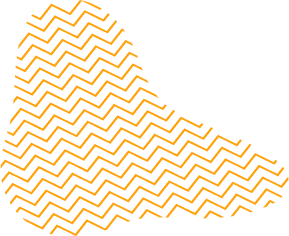
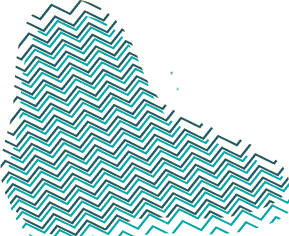
actualizando home con imagnees

diff --git a/public/assetshome/css/owl.css b/public/assetshome/css/owl.css
@@ -10,7 +10,7 @@
 .owl-carousel .owl-item {    position: relative;    min-height: 1px;    float: left;    -webkit-backface-visibility: hidden;    -webkit-tap-highlight-color: transparent;    -webkit-touch-callout: none; }  .owl-carousel .owl-item img {    display: block;    width: 100%;    -webkit-transform-style: preserve-3d; }  .owl-carousel .owl-nav.disabled,  .owl-carousel .owl-dots.disabled {    display: none; }  .owl-carousel .owl-nav .owl-prev,  .owl-carousel .owl-nav .owl-next,  .owl-carousel .owl-dot {    cursor: pointer;    cursor: hand;    -webkit-user-select: none;    -khtml-user-select: none;    -moz-user-select: none;    -ms-user-select: none;    user-select: none; }  .owl-carousel.owl-loaded {    display: block; }  .owl-carousel.owl-loading {    opacity: 0;    display: block; }  .owl-carousel.owl-hidden {    opacity: 0; }  .owl-carousel.owl-refresh .owl-item {    visibility: hidden; }  .owl-carousel.owl-drag .owl-item {    -webkit-user-select: none;    -moz-user-select: none;    -ms-user-select: none;    user-select: none; }  .owl-carousel.owl-grab {    cursor: move;    cursor: grab; }  .owl-carousel.owl-rtl {    direction: rtl; }  .owl-carousel.owl-rtl .owl-item {    float: right; }.no-js .owl-carousel {  display: block; }
 .owl-carousel .animated {  -webkit-animation-duration: 1000ms;  animation-duration: 1000ms;  -webkit-animation-fill-mode: both; animation-fill-mode: both; }.owl-carousel .owl-animated-in {  z-index: 0; } .owl-carousel .owl-animated-out {  z-index: 1; }.owl-carousel .fadeOut {  -webkit-animation-name: fadeOut;          animation-name: fadeOut; }@-webkit-keyframes fadeOut {  0% {    opacity: 1; }  100% {    opacity: 0; } }@keyframes fadeOut {  0% {    opacity: 1; }  100% {    opacity: 0; } } .owl-height {  transition: height 500ms ease-in-out; } .owl-carousel .owl-item .owl-lazy {  opacity: 0;  transition: opacity 400ms ease; }.owl-carousel .owl-item img.owl-lazy {  -webkit-transform-style: preserve-3d;      transform-style: preserve-3d; }.owl-carousel .owl-video-wrapper {  position: relative;  height: 100%;  background: #000; }.owl-carousel .owl-video-play-icon {  position: absolute;  height: 80px;  width: 80px;  left: 50%;  top: 50%;  margin-left: -40px;  margin-top: -40px;  background: url("owl.video.play.png") no-repeat;  cursor: pointer;  z-index: 1; -webkit-backface-visibility: hidden; transition: -webkit-transform 100ms ease;  transition: transform 100ms ease; } .owl-carousel .owl-video-play-icon:hover { -webkit-transform: scale(1.3, 1.3); -ms-transform: scale(1.3, 1.3); transform: scale(1.3, 1.3); }.owl-carousel .owl-video-playing .owl-video-tn,.owl-carousel .owl-video-playing .owl-video-play-icon {  display: none; }.owl-carousel .owl-video-tn { opacity: 0;height: 100%;background-position: center center;background-repeat: no-repeat;  background-size: contain;  transition: opacity 400ms ease; }.owl-carousel .owl-video-frame {position: relative;  z-index: 1; height: 100%;width: 100%;}
  body{}ul{padding:0;margin:0;list-style:none}.megamenu_lists>li>a{padding:10px;color:#000000}.xs-container{width:100%;margin-left:auto;margin-right:auto;position:relative;max-width:1140px}.xs-navbar{position:relative;display:-webkit-box;display:-ms-flexbox;display:flex;-ms-flex-wrap:wrap;flex-wrap:wrap;-webkit-box-align:center;-ms-flex-align:center;align-items:center;-webkit-box-pack:justify;-ms-flex-pack:justify;justify-content:space-between}.xs-navbar-brand{text-decoration:none;color:#000000}.xs-navbar-brand>h2{margin-top:0;margin-bottom:0}@media (min-width:992px){.elementskit-header .elementskit-menu-container{position:static}.elementskit-megamenu-panel>li{display:inline-block;width:25%;float:left}}.language-content p{color:#FFFFFF;text-align:center;margin-bottom:40px;font-size:rem(20px)}.flag-lists{text-align:center}.flag-lists li{display:inline-block;margin-right:25px}.flag-lists li:last-child{margin-right:0}.flag-lists li a{display:block;color:#FFFFFF;-webkit-transition:all 0.4s ease;-o-transition:all 0.4s ease;transition:all 0.4s ease;-webkit-backface-visibility:hidden;backface-visibility:hidden}.flag-lists li a:hover{opacity:.7}.flag-lists li a img{width:40px;height:40px;margin-right:10px;vertical-align:middle}.modal-searchPanel .xs-search-group{position:relative}.modal-searchPanel .xs-search-group input:not([type=submit]){height:70px;background-color:transparent;border-radius:50px;border:2px solid #FFFFFF;color:#FFFFFF;padding:0 30px;width:100%}.modal-searchPanel .xs-search-group input:not([type=submit])::-webkit-input-placeholder{color:#FFFFFF}.modal-searchPanel .xs-search-group input:not([type=submit])::-moz-placeholder{color:#FFFFFF}.modal-searchPanel
- .xs-search-group input:not([type=submit]):-ms-input-placeholder{color:#FFFFFF}.modal-searchPanel .xs-search-group input:not([type=submit]):-moz-placeholder{color:#FFFFFF}.modal-searchPanel .xs-search-group .search-button{background-color:transparent;border:0px;padding:0;color:#FFFFFF;position:absolute;right:0;cursor:pointer;top:50%;-webkit-transform:translateY(-50%);-ms-transform:translateY(-50%);transform:translateY(-50%);height:100%;width:70px;border-radius:0 50px 50px 0}.modal-searchPanel .xs-search-panel{max-width:800px;margin:1.75rem auto}.mfp-bg.xs-promo-popup{background-color:rgba(0, 0, 0, 0.87);padding-bottom:100%;border-radius:100%;overflow:hidden;-webkit-animation:menu-animation .8s ease-out forwards;animation:menu-animation .8s ease-out forwards}@-webkit-keyframes menu-animation{0%{opacity:0;-webkit-transform:scale(0.04) translateY(300%);transform:scale(0.04) translateY(300%)}40%{-webkit-transform:scale(0.04) translateY(0);transform:scale(0.04) translateY(0);-webkit-transition:ease-out;-o-transition:ease-out;transition:ease-out}40%{-webkit-transform:scale(0.04) translateY(0);transform:scale(0.04) translateY(0)}60%{opacity:1;-webkit-transform:scale(0.02) translateY(0px);transform:scale(0.02) translateY(0px)}61%{opacity:1;-webkit-transform:scale(0.04) translateY(0px);transform:scale(0.04) translateY(0px)}99.9%{opacity:1;height:0;padding-bottom:100%;border-radius:100%}to{opacity:1;-webkit-transform:scale(2) translateY(0px);transform:scale(2) translateY(0px);height:100%;padding-bottom:0;border-radius:0}}@keyframes menu-animation{0%{opacity:0;-webkit-transform:scale(0.04) translateY(300%);transform:scale(0.04) translateY(300%)}40%{-webkit-transform:scale(0.04) translateY(0);transform:scale(0.04) translateY(0);-webkit-transition:ease-out;-o-transition:ease-out;transition:ease-out}40%{-webkit-transform:scale(0.04) translateY(0);transform:scale(0.04) translateY(0)}60%{opacity:1;-webkit-transform:scale(0.02) translateY(0px);transform:scale(0.02) translateY(0px)}61%{opacity:1;-webkit-transform:scale(0.04) translateY(0px);transform:scale(0.04) translateY(0px)}99.9%{opacity:1;height:0;padding-bottom:100%;border-radius:100%}to{opacity:1;-webkit-transform:scale(2) translateY(0px);transform:scale(2) translateY(0px);height:100%;padding-bottom:0;border-radius:0}}.xs-promo-popup .modal-content{background-color:transparent;padding:0px;border:0px}.xs-promo-popup .mfp-close{color:#FFFFFF;opacity:0;-webkit-transition:all 1s ease .8s;-o-transition:all 1s ease .8s;transition:all 1s ease .8s;-webkit-transform:translateY(-500px);-ms-transform:translateY(-500px);transform:translateY(-500px)}.xs-promo-popup.mfp-ready .mfp-close{opacity:1;-webkit-transform:translateY(0);-ms-transform:translateY(0);transform:translateY(0)}.xs-promo-popup.my-mfp-slide-bottom .zoom-anim-dialog{opacity:0;-webkit-transition:all 1s ease .8s;-o-transition:all 1s ease .8s;transition:all 1s ease .8s;-webkit-transform:translateY(-500px);-ms-transform:translateY(-500px);transform:translateY(-500px)}.xs-promo-popup.my-mfp-slide-bottom.mfp-ready .zoom-anim-dialog{opacity:1;-webkit-transform:translateY(0);-ms-transform:translateY(0);transform:translateY(0)}.mini_cart_item{margin-bottom:20px;padding-bottom:20px}.xs-empty-content{padding:120px 30px 30px}.xs-empty-content .widget-title{font-size:rem(22px)}.xs-empty-content .xs-title{margin-bottom:20px;font-size:rem(18px)}.xs-empty-content .woocommerce-mini-cart__empty-message{font-size:rem(20px)}.xs-empty-content .empty-cart-icon{font-size:rem(50px)}.sidebar-textwidget .sidebar-logo-wraper{margin-bottom:33px}.sidebar-textwidget>p{font-size:rem(15px);line-height:1.5;margin-bottom:40px}.sidebar-textwidget .social-list{margin-bottom:30px}.sideabr-list-widget{margin-bottom:40px}.sideabr-list-widget li{margin-bottom:20px}.sideabr-list-widget li:last-child{margin-bottom:0px}.sideabr-list-widget img{margin-right:15px;margin-top:3px}.sideabr-list-widget a,.sideabr-list-widget p{margin-bottom:2px;color:#000000;margin-bottom:8px;display:block}.sideabr-list-widget span{display:block;font-size:rem(14px);color:#1768dd}.sideabr-list-widget .media-body{line-height:1}.subscribe-from{position:relative;margin-bottom:40px}.subscribe-from p{font-size:rem(18px);font-weight:700;margin-bottom:15px;line-height:1;color:#1768dd}.subscribe-from label{position:absolute;bottom:-24px;left:0px;margin-bottom:0;line-height:1}.subscribe-from .form-control{border:1px solid #f5f5f5;height:50px;padding-left:25px}.subscribe-from .sub-btn{background-color:transparent;border:0px;position:absolute;top:0;right:0;padding-right:25px;cursor:pointer;color:#1768dd;height:100%}.subscribe-from .sub-btn:focus{outline:none}.subscribe-from .form-group{position:relative;overflow:hidden;-webkit-box-shadow:0px 10px 30px 0px rgba(23, 104, 221, 0.2);box-shadow:0px 10px 30px 0px rgba(23, 104, 221, 0.2);border-radius:25px;margin-bottom:0px}.xs-sidebar-group .xs-overlay{left:100%;top:0;position:fixed;z-index:101;height:100%;opacity:0;width:100%;visibility:hidden;-webkit-transition:all .4s ease-in .8s;-o-transition:all .4s ease-in .8s;transition:all .4s ease-in .8s;cursor:url(../images/cross-out.png), pointer}.xs-sidebar-group .widget-heading{position:absolute;top:0;right:0;padding:25px}.xs-sidebar-widget{position:fixed;right:-100%;top:0;bottom:0;width:100%;max-width:360px;z-index:999999;overflow:hidden;overflow-y:auto;-webkit-overflow-scrolling:touch;background-color:#272727;-webkit-transition:all 0.5s cubic-bezier(0.9, 0.03, 0, 0.96) 0.6s;-o-transition:all 0.5s cubic-bezier(0.9, 0.03, 0, 0.96) 0.6s;transition:all 0.5s cubic-bezier(0.9, 0.03, 0, 0.96) 0.6s;visibility:hidden;opacity:0}.xs-sidebar-group.isActive .xs-overlay{opacity:.9;visibility:visible;-webkit-transition:all .8s ease-out 0s;-o-transition:all .8s ease-out 0s;transition:all .8s ease-out 0s;left:0}.xs-sidebar-group.isActive .xs-sidebar-widget{opacity:1;visibility:visible;right:0;-webkit-transition:all 0.7s cubic-bezier(0.9, 0.03, 0, 0.96) 0.4s;-o-transition:all 0.7s cubic-bezier(0.9, 0.03, 0, 0.96) 0.4s;transition:all 0.7s cubic-bezier(0.9, 0.03, 0, 0.96) 0.4s}.sidebar-textwidget{padding:40px;}.close-side-widget{color:#1768dd;font-size:rem(15px);display:block}.sidebar-widget-container{position:relative;top:150px;opacity:0;visibility:hidden;-webkit-transition:all .3s ease-in .3s;-o-transition:all .3s ease-in .3s;transition:all .3s ease-in .3s;-webkit-backface-visibility:hidden;backface-visibility:hidden}.xs-sidebar-group.isActive .sidebar-widget-container{top:0px;opacity:1;visibility:visible;-webkit-transition:all 1s ease-out 1.2s;-o-transition:all 1s ease-out 1.2s;transition:all 1s ease-out 1.2s;-webkit-backface-visibility:hidden;backface-visibility:hidden}.xs-overlay{position:absolute;top:0;left:0;height:100%;width:100%;opacity:.5;z-index:0}.xs-bg-black{background-color:#375F7A}.xs-menu-tools>li{display:inline-block;margin-right:15px}.xs-menu-tools>li:last-child{margin-right:0}.xs-menu-tools>li>a{color:#000000;text-decoration:none}.nav-alignment-dynamic,.nav-alignment-flex-start{-webkit-box-pack:start;-ms-flex-pack:start;justify-content:flex-start}.elementskit-menu-container{z-index:10000}.elementskit-navbar-nav{padding-left:0;margin-bottom:0;list-style:none}.elementskit-navbar-nav li{position:relative; padding:0px 15px;}.elementskit-navbar-nav li:last-child{border-bottom:none;}.elementskit-navbar-nav li a{height:100%;text-transform:capitalize;display:-webkit-box;display:-ms-flexbox;display:flex;-webkit-box-align:center;-ms-flex-align:center;align-items:center;text-decoration:none}.elementskit-navbar-nav li a:hover{text-decoration:none}.elementskit-navbar-nav li.elementskit-megamenu-has{position:static}.elementskit-navbar-nav>li>a{-webkit-transition:all .4s ease;-o-transition:all .4s ease;transition:all .4s ease;text-transform:none;font-weight:500;letter-spacing:normal}.elementskit-dropdown{padding-left:0;list-style:none;opacity:0;visibility:hidden;}.elementskit-dropdown>li>.elementskit-dropdown{left:100%;top:0}.elementskit-dropdown>li>.elementskit-dropdown.open-fromleft{left:auto;right:100%}.elementskit-submenu-panel>li:hover>a,.elementskit-submenu-panel>li>a:hover{color:#0d3a4f;background:rgba(255, 255, 255, 0.5);background:-webkit-gradient(linear, left top, right top, from(rgba(255, 255, 255, 0.5)), to(rgba(255, 255, 255, 0.5)));background:-webkit-linear-gradient(left, rgba(255, 255, 255, 0.5) 0%, rgba(255, 255, 255, 0.5) 100%);background:-o-linear-gradient(left, rgba(255, 255, 255, 0.5) 0%, rgba(255, 255, 255, 0.5) 100%);background:linear-gradient(90deg, rgba(255, 255, 255, 0.5) 0%, rgba(255, 255, 255, 0.5) 100%)}.elementskit-megamenu-panel{width:100%;}.elementskit-overlay{display:none}.elementskit-nav-identity-panel{display:none}.elementskit-menu-hamburger{border:1px solid rgba(0, 0, 0, 0.2);float:right}.elementskit-menu-hamburger .elementskit-menu-hamburger-icon{background-color:rgba(0, 0, 0, 0.5)}.elementskit-menu-close,.elementskit-menu-hamburger{display:none;padding:8px;background-color:transparent;border-radius:0.25rem;position:relative;z-index:10;cursor:pointer;width:45px}.elementskit-menu-close .elementskit-menu-hamburger-icon,.elementskit-menu-hamburger .elementskit-menu-hamburger-icon{height:1px;width:100%;display:block;margin-bottom:4px}.elementskit-menu-close .elementskit-menu-hamburger-icon:last-child,.elementskit-menu-hamburger .elementskit-menu-hamburger-icon:last-child{margin-bottom:0}.elementskit-menu-close{border:1px solid rgba(0, 0, 0, 0.5);color:rgba(51, 51, 51, 0.5);float:right;margin-top:20px;margin-left:20px;margin-right:20px;margin-bottom:20px}.elementskit-dropdown-has:hover>a:after{border-color:transparent #1e73be #1e73be transparent}.elementskit-dropdown-has>a{position:relative;-webkit-box-pack:justify;-ms-flex-pack:justify;justify-content:space-between}.elementskit-dropdown-has>a:hover:after{border-color:transparent #1e73be #1e73be transparent}.elementskit-dropdown-has>a:after{}.elementskit-submenu-panel .elementskit-dropdown-has:hover>a:after{border-color:transparent #0d3a4f #0d3a4f transparent}.elementskit-submenu-panel .elementskit-dropdown-has>a:hover:after{border-color:transparent #0d3a4f #0d3a4f transparent}@media (min-width:992px){.elementskit-dropdown .elementskit-dropdown-has>a:after{}.elementskit-menu-container{background:rgba(255, 255, 255, 0);background:-webkit-gradient(linear, left bottom, left top, from(rgba(255, 255, 255, 0)), to(rgba(255, 255, 255, 0)));background:-webkit-linear-gradient(bottom, rgba(255, 255, 255, 0) 0%, rgba(255, 255, 255, 0) 100%);background:-o-linear-gradient(bottom, rgba(255, 255, 255, 0) 0%, rgba(255, 255, 255, 0) 100%);background:linear-gradient(0deg, rgba(255, 255, 255, 0) 0%, rgba(255, 255, 255, 0) 100%);border-bottom-right-radius:0px;border-bottom-left-radius:0px;border-top-right-radius:0px;border-top-left-radius:0px;position:relative}.elementskit-dropdown{min-width:250px}.elementskit-navbar-nav{display:-webkit-box;display:-ms-flexbox;display:flex;}.elementskit-navbar-nav>li>a{}.elementskit-dropdown{-webkit-box-shadow:0px 10px 30px 0px rgba(45, 45, 45, 0.2);box-shadow:0px 10px 30px 0px rgba(45, 45, 45, 0.2);position:absolute;top:100%;left:0px;-webkit-transform:translateY(-10px);-ms-transform:translateY(-10px);transform:translateY(-10px);pointer-events:none}.elementskit-dropdown-has:hover>.elementskit-dropdown{opacity:1;visibility:visible;-webkit-transform:translateY(0px);-ms-transform:translateY(0px);transform:translateY(0px);pointer-events:auto}}@media (max-width:991px){.elementskit-menu-container{background:#f7f7f7;background:-webkit-gradient(linear, left bottom, left top, from(#f7f7f7), to(#f7f7f7));background:-webkit-linear-gradient(bottom, #f7f7f7 0%, #f7f7f7 100%);background:-o-linear-gradient(bottom, #f7f7f7 0%, #f7f7f7 100%);background:linear-gradient(0deg, #f7f7f7 0%, #f7f7f7 100%);max-width:350px;width:100%;position:fixed;top:0;left:-450px;height:100%;-webkit-box-shadow:0px 10px 30px 0px rgba(255, 165, 0, 0);box-shadow:0px 10px 30px 0px rgba(255, 165, 0, 0);overflow-y:auto;overflow-x:hidden;padding-top:10px;padding-left:0px;padding-right:0px;padding-bottom:10px;-webkit-transition:left 600ms cubic-bezier(0.6, 0.1, 0.68, 0.53) 0ms;-o-transition:left 600ms cubic-bezier(0.6, 0.1, 0.68, 0.53) 0ms;transition:left 600ms cubic-bezier(0.6, 0.1, 0.68, 0.53) 0ms}.elementskit-menu-container.active{left:0}.no-scroller{overflow:hidden}.elementskit-menu-overlay{display:block;position:fixed;z-index:5;top:0;left:-110%;height:100%;width:100%;background-color:rgba(51, 51, 51, 0.5);-webkit-transition:all 0.4s ease;-o-transition:all 0.4s ease;transition:all 0.4s ease;opacity:1;visibility:visible;-webkit-transition:all 600ms cubic-bezier(0.6, 0.1, 0.68, 0.53) 400ms;-o-transition:all 600ms cubic-bezier(0.6, 0.1, 0.68, 0.53) 400ms;transition:all 600ms cubic-bezier(0.6, 0.1, 0.68, 0.53) 400ms}.elementskit-menu-overlay.active{left:0%;-webkit-transition:all 600ms cubic-bezier(0.22, 0.61, 0.24, 1) 0ms;-o-transition:all 600ms cubic-bezier(0.22, 0.61, 0.24, 1) 0ms;transition:all 600ms cubic-bezier(0.22, 0.61, 0.24, 1) 0ms}.elementskit-menu-close,.elementskit-menu-hamburger{display:block}.elementskit-nav-identity-panel{display:block;position:absolute;top:0;left:0;z-index:5;width:100%}.elementskit-nav-identity-panel .elementskit-site-title{float:left}.elementskit-nav-identity-panel .elementskit-menu-close{float:right}.elementskit-navbar-nav{padding-top:100px}.elementskit-navbar-nav>li>a{color:#000000;font-size:12px;padding-top:5px;padding-left:10px;padding-right:5px;padding-bottom:5px}.elementskit-navbar-nav>li>a:hover{color:#0d3a4f}.elementskit-navbar-nav>li:hover>a{color:#0d3a4f}.elementskit-submenu-panel>li>a{color:#000000;font-size:12px;padding-top:7px;padding-left:7px;padding-right:7px;padding-bottom:7px}.elementskit-dropdown{max-height:0;overflow:hidden;display:block;border:0px;-webkit-box-shadow:none;box-shadow:none;-webkit-transition:max-height 2s cubic-bezier(0, 1, 0, 1);-o-transition:max-height 2s cubic-bezier(0, 1, 0, 1);transition:max-height 2s cubic-bezier(0, 1, 0, 1)}.elementskit-dropdown.elementskit-dropdown-open{max-height:2500px;opacity:1;visibility:visible;-webkit-transition:max-height 5s ease-out;-o-transition:max-height 5s ease-out;transition:max-height 5s ease-out}.elementskit-navbar-nav>.elementskit-dropdown-has>.elementskit-dropdown li a{padding-left:15px}}
+ .xs-search-group input:not([type=submit]):-ms-input-placeholder{color:#FFFFFF}.modal-searchPanel .xs-search-group input:not([type=submit]):-moz-placeholder{color:#FFFFFF}.modal-searchPanel .xs-search-group .search-button{background-color:transparent;border:0px;padding:0;color:#FFFFFF;position:absolute;right:0;cursor:pointer;top:50%;-webkit-transform:translateY(-50%);-ms-transform:translateY(-50%);transform:translateY(-50%);height:100%;width:70px;border-radius:0 50px 50px 0}.modal-searchPanel .xs-search-panel{max-width:800px;margin:1.75rem auto}.mfp-bg.xs-promo-popup{background-color:rgba(0, 0, 0, 0.87);padding-bottom:100%;border-radius:100%;overflow:hidden;-webkit-animation:menu-animation .8s ease-out forwards;animation:menu-animation .8s ease-out forwards}@-webkit-keyframes menu-animation{0%{opacity:0;-webkit-transform:scale(0.04) translateY(300%);transform:scale(0.04) translateY(300%)}40%{-webkit-transform:scale(0.04) translateY(0);transform:scale(0.04) translateY(0);-webkit-transition:ease-out;-o-transition:ease-out;transition:ease-out}40%{-webkit-transform:scale(0.04) translateY(0);transform:scale(0.04) translateY(0)}60%{opacity:1;-webkit-transform:scale(0.02) translateY(0px);transform:scale(0.02) translateY(0px)}61%{opacity:1;-webkit-transform:scale(0.04) translateY(0px);transform:scale(0.04) translateY(0px)}99.9%{opacity:1;height:0;padding-bottom:100%;border-radius:100%}to{opacity:1;-webkit-transform:scale(2) translateY(0px);transform:scale(2) translateY(0px);height:100%;padding-bottom:0;border-radius:0}}@keyframes menu-animation{0%{opacity:0;-webkit-transform:scale(0.04) translateY(300%);transform:scale(0.04) translateY(300%)}40%{-webkit-transform:scale(0.04) translateY(0);transform:scale(0.04) translateY(0);-webkit-transition:ease-out;-o-transition:ease-out;transition:ease-out}40%{-webkit-transform:scale(0.04) translateY(0);transform:scale(0.04) translateY(0)}60%{opacity:1;-webkit-transform:scale(0.02) translateY(0px);transform:scale(0.02) translateY(0px)}61%{opacity:1;-webkit-transform:scale(0.04) translateY(0px);transform:scale(0.04) translateY(0px)}99.9%{opacity:1;height:0;padding-bottom:100%;border-radius:100%}to{opacity:1;-webkit-transform:scale(2) translateY(0px);transform:scale(2) translateY(0px);height:100%;padding-bottom:0;border-radius:0}}.xs-promo-popup .modal-content{background-color:transparent;padding:0px;border:0px}.xs-promo-popup .mfp-close{color:#FFFFFF;opacity:0;-webkit-transition:all 1s ease .8s;-o-transition:all 1s ease .8s;transition:all 1s ease .8s;-webkit-transform:translateY(-500px);-ms-transform:translateY(-500px);transform:translateY(-500px)}.xs-promo-popup.mfp-ready .mfp-close{opacity:1;-webkit-transform:translateY(0);-ms-transform:translateY(0);transform:translateY(0)}.xs-promo-popup.my-mfp-slide-bottom .zoom-anim-dialog{opacity:0;-webkit-transition:all 1s ease .8s;-o-transition:all 1s ease .8s;transition:all 1s ease .8s;-webkit-transform:translateY(-500px);-ms-transform:translateY(-500px);transform:translateY(-500px)}.xs-promo-popup.my-mfp-slide-bottom.mfp-ready .zoom-anim-dialog{opacity:1;-webkit-transform:translateY(0);-ms-transform:translateY(0);transform:translateY(0)}.mini_cart_item{margin-bottom:20px;padding-bottom:20px}.xs-empty-content{padding:120px 30px 30px}.xs-empty-content .widget-title{font-size:rem(22px)}.xs-empty-content .xs-title{margin-bottom:20px;font-size:rem(18px)}.xs-empty-content .woocommerce-mini-cart__empty-message{font-size:rem(20px)}.xs-empty-content .empty-cart-icon{font-size:rem(50px)}.sidebar-textwidget .sidebar-logo-wraper{margin-bottom:33px}.sidebar-textwidget>p{font-size:rem(15px);line-height:1.5;margin-bottom:40px}.sidebar-textwidget .social-list{margin-bottom:30px}.sideabr-list-widget{margin-bottom:40px}.sideabr-list-widget li{margin-bottom:20px}.sideabr-list-widget li:last-child{margin-bottom:0px}.sideabr-list-widget img{margin-right:15px;margin-top:3px}.sideabr-list-widget a,.sideabr-list-widget p{margin-bottom:2px;color:#000000;margin-bottom:8px;display:block}.sideabr-list-widget span{display:block;font-size:rem(14px);color:#1768dd}.sideabr-list-widget .media-body{line-height:1}.subscribe-from{position:relative;margin-bottom:40px}.subscribe-from p{font-size:rem(18px);font-weight:700;margin-bottom:15px;line-height:1;color:#1768dd}.subscribe-from label{position:absolute;bottom:-24px;left:0px;margin-bottom:0;line-height:1}.subscribe-from .form-control{border:1px solid #f5f5f5;height:50px;padding-left:25px}.subscribe-from .sub-btn{background-color:transparent;border:0px;position:absolute;top:0;right:0;padding-right:25px;cursor:pointer;color:#1768dd;height:100%}.subscribe-from .sub-btn:focus{outline:none}.subscribe-from .form-group{position:relative;overflow:hidden;-webkit-box-shadow:0px 10px 30px 0px rgba(23, 104, 221, 0.2);box-shadow:0px 10px 30px 0px rgba(23, 104, 221, 0.2);border-radius:25px;margin-bottom:0px}.xs-sidebar-group .xs-overlay{left:100%;top:0;position:fixed;z-index:101;height:100%;opacity:0;width:100%;visibility:hidden;-webkit-transition:all .4s ease-in .8s;-o-transition:all .4s ease-in .8s;transition:all .4s ease-in .8s;cursor:url(../images/cross-out.png), pointer}.xs-sidebar-group .widget-heading{position:absolute;top:0;right:0;padding:25px}.xs-sidebar-widget{position:fixed;right:-100%;top:0;bottom:0;width:100%;max-width:360px;z-index:999999;overflow:hidden;overflow-y:auto;-webkit-overflow-scrolling:touch;background-color:#272727;-webkit-transition:all 0.5s cubic-bezier(0.9, 0.03, 0, 0.96) 0.6s;-o-transition:all 0.5s cubic-bezier(0.9, 0.03, 0, 0.96) 0.6s;transition:all 0.5s cubic-bezier(0.9, 0.03, 0, 0.96) 0.6s;visibility:hidden;opacity:0}.xs-sidebar-group.isActive .xs-overlay{opacity:.9;visibility:visible;-webkit-transition:all .8s ease-out 0s;-o-transition:all .8s ease-out 0s;transition:all .8s ease-out 0s;left:0}.xs-sidebar-group.isActive .xs-sidebar-widget{opacity:1;visibility:visible;right:0;-webkit-transition:all 0.7s cubic-bezier(0.9, 0.03, 0, 0.96) 0.4s;-o-transition:all 0.7s cubic-bezier(0.9, 0.03, 0, 0.96) 0.4s;transition:all 0.7s cubic-bezier(0.9, 0.03, 0, 0.96) 0.4s}.sidebar-textwidget{padding:40px;}.close-side-widget{color:#1768dd;font-size:rem(15px);display:block}.sidebar-widget-container{position:relative;top:150px;opacity:0;visibility:hidden;-webkit-transition:all .3s ease-in .3s;-o-transition:all .3s ease-in .3s;transition:all .3s ease-in .3s;-webkit-backface-visibility:hidden;backface-visibility:hidden}.xs-sidebar-group.isActive .sidebar-widget-container{top:0px;opacity:0.5;visibility:visible;-webkit-transition:all 1s ease-out 1.2s;-o-transition:all 1s ease-out 1.2s;transition:all 1s ease-out 1.2s;-webkit-backface-visibility:hidden;backface-visibility:hidden}.xs-overlay{position:absolute;top:0;left:0;height:100%;width:100%;opacity:.5;z-index:0}.xs-bg-black{background-color:#375F7A}.xs-menu-tools>li{display:inline-block;margin-right:15px}.xs-menu-tools>li:last-child{margin-right:0}.xs-menu-tools>li>a{color:#000000;text-decoration:none}.nav-alignment-dynamic,.nav-alignment-flex-start{-webkit-box-pack:start;-ms-flex-pack:start;justify-content:flex-start}.elementskit-menu-container{z-index:10000}.elementskit-navbar-nav{padding-left:0;margin-bottom:0;list-style:none}.elementskit-navbar-nav li{position:relative; padding:0px 15px;}.elementskit-navbar-nav li:last-child{border-bottom:none;}.elementskit-navbar-nav li a{height:100%;text-transform:capitalize;display:-webkit-box;display:-ms-flexbox;display:flex;-webkit-box-align:center;-ms-flex-align:center;align-items:center;text-decoration:none}.elementskit-navbar-nav li a:hover{text-decoration:none}.elementskit-navbar-nav li.elementskit-megamenu-has{position:static}.elementskit-navbar-nav>li>a{-webkit-transition:all .4s ease;-o-transition:all .4s ease;transition:all .4s ease;text-transform:none;font-weight:500;letter-spacing:normal}.elementskit-dropdown{padding-left:0;list-style:none;opacity:0;visibility:hidden;}.elementskit-dropdown>li>.elementskit-dropdown{left:100%;top:0}.elementskit-dropdown>li>.elementskit-dropdown.open-fromleft{left:auto;right:100%}.elementskit-submenu-panel>li:hover>a,.elementskit-submenu-panel>li>a:hover{color:#0d3a4f;background:rgba(255, 255, 255, 0.5);background:-webkit-gradient(linear, left top, right top, from(rgba(255, 255, 255, 0.5)), to(rgba(255, 255, 255, 0.5)));background:-webkit-linear-gradient(left, rgba(255, 255, 255, 0.5) 0%, rgba(255, 255, 255, 0.5) 100%);background:-o-linear-gradient(left, rgba(255, 255, 255, 0.5) 0%, rgba(255, 255, 255, 0.5) 100%);background:linear-gradient(90deg, rgba(255, 255, 255, 0.5) 0%, rgba(255, 255, 255, 0.5) 100%)}.elementskit-megamenu-panel{width:100%;}.elementskit-overlay{display:none}.elementskit-nav-identity-panel{display:none}.elementskit-menu-hamburger{border:1px solid rgba(0, 0, 0, 0.2);float:right}.elementskit-menu-hamburger .elementskit-menu-hamburger-icon{background-color:rgba(0, 0, 0, 0.5)}.elementskit-menu-close,.elementskit-menu-hamburger{display:none;padding:8px;background-color:transparent;border-radius:0.25rem;position:relative;z-index:10;cursor:pointer;width:45px}.elementskit-menu-close .elementskit-menu-hamburger-icon,.elementskit-menu-hamburger .elementskit-menu-hamburger-icon{height:1px;width:100%;display:block;margin-bottom:4px}.elementskit-menu-close .elementskit-menu-hamburger-icon:last-child,.elementskit-menu-hamburger .elementskit-menu-hamburger-icon:last-child{margin-bottom:0}.elementskit-menu-close{border:1px solid rgba(0, 0, 0, 0.5);color:rgba(51, 51, 51, 0.5);float:right;margin-top:20px;margin-left:20px;margin-right:20px;margin-bottom:20px}.elementskit-dropdown-has:hover>a:after{border-color:transparent #1e73be #1e73be transparent}.elementskit-dropdown-has>a{position:relative;-webkit-box-pack:justify;-ms-flex-pack:justify;justify-content:space-between}.elementskit-dropdown-has>a:hover:after{border-color:transparent #1e73be #1e73be transparent}.elementskit-dropdown-has>a:after{}.elementskit-submenu-panel .elementskit-dropdown-has:hover>a:after{border-color:transparent #0d3a4f #0d3a4f transparent}.elementskit-submenu-panel .elementskit-dropdown-has>a:hover:after{border-color:transparent #0d3a4f #0d3a4f transparent}@media (min-width:992px){.elementskit-dropdown .elementskit-dropdown-has>a:after{}.elementskit-menu-container{background:rgba(255, 255, 255, 0);background:-webkit-gradient(linear, left bottom, left top, from(rgba(255, 255, 255, 0)), to(rgba(255, 255, 255, 0)));background:-webkit-linear-gradient(bottom, rgba(255, 255, 255, 0) 0%, rgba(255, 255, 255, 0) 100%);background:-o-linear-gradient(bottom, rgba(255, 255, 255, 0) 0%, rgba(255, 255, 255, 0) 100%);background:linear-gradient(0deg, rgba(255, 255, 255, 0) 0%, rgba(255, 255, 255, 0) 100%);border-bottom-right-radius:0px;border-bottom-left-radius:0px;border-top-right-radius:0px;border-top-left-radius:0px;position:relative}.elementskit-dropdown{min-width:250px}.elementskit-navbar-nav{display:-webkit-box;display:-ms-flexbox;display:flex;}.elementskit-navbar-nav>li>a{}.elementskit-dropdown{-webkit-box-shadow:0px 10px 30px 0px rgba(45, 45, 45, 0.2);box-shadow:0px 10px 30px 0px rgba(45, 45, 45, 0.2);position:absolute;top:100%;left:0px;-webkit-transform:translateY(-10px);-ms-transform:translateY(-10px);transform:translateY(-10px);pointer-events:none}.elementskit-dropdown-has:hover>.elementskit-dropdown{opacity:1;visibility:visible;-webkit-transform:translateY(0px);-ms-transform:translateY(0px);transform:translateY(0px);pointer-events:auto}}@media (max-width:991px){.elementskit-menu-container{background:#f7f7f7;background:-webkit-gradient(linear, left bottom, left top, from(#f7f7f7), to(#f7f7f7));background:-webkit-linear-gradient(bottom, #f7f7f7 0%, #f7f7f7 100%);background:-o-linear-gradient(bottom, #f7f7f7 0%, #f7f7f7 100%);background:linear-gradient(0deg, #f7f7f7 0%, #f7f7f7 100%);max-width:350px;width:100%;position:fixed;top:0;left:-450px;height:100%;-webkit-box-shadow:0px 10px 30px 0px rgba(255, 165, 0, 0);box-shadow:0px 10px 30px 0px rgba(255, 165, 0, 0);overflow-y:auto;overflow-x:hidden;padding-top:10px;padding-left:0px;padding-right:0px;padding-bottom:10px;-webkit-transition:left 600ms cubic-bezier(0.6, 0.1, 0.68, 0.53) 0ms;-o-transition:left 600ms cubic-bezier(0.6, 0.1, 0.68, 0.53) 0ms;transition:left 600ms cubic-bezier(0.6, 0.1, 0.68, 0.53) 0ms}.elementskit-menu-container.active{left:0}.no-scroller{overflow:hidden}.elementskit-menu-overlay{display:block;position:fixed;z-index:5;top:0;left:-110%;height:100%;width:100%;background-color:rgba(51, 51, 51, 0.5);-webkit-transition:all 0.4s ease;-o-transition:all 0.4s ease;transition:all 0.4s ease;opacity:1;visibility:visible;-webkit-transition:all 600ms cubic-bezier(0.6, 0.1, 0.68, 0.53) 400ms;-o-transition:all 600ms cubic-bezier(0.6, 0.1, 0.68, 0.53) 400ms;transition:all 600ms cubic-bezier(0.6, 0.1, 0.68, 0.53) 400ms}.elementskit-menu-overlay.active{left:0%;-webkit-transition:all 600ms cubic-bezier(0.22, 0.61, 0.24, 1) 0ms;-o-transition:all 600ms cubic-bezier(0.22, 0.61, 0.24, 1) 0ms;transition:all 600ms cubic-bezier(0.22, 0.61, 0.24, 1) 0ms}.elementskit-menu-close,.elementskit-menu-hamburger{display:block}.elementskit-nav-identity-panel{display:block;position:absolute;top:0;left:0;z-index:5;width:100%}.elementskit-nav-identity-panel .elementskit-site-title{float:left}.elementskit-nav-identity-panel .elementskit-menu-close{float:right}.elementskit-navbar-nav{padding-top:100px}.elementskit-navbar-nav>li>a{color:#000000;font-size:12px;padding-top:5px;padding-left:10px;padding-right:5px;padding-bottom:5px}.elementskit-navbar-nav>li>a:hover{color:#0d3a4f}.elementskit-navbar-nav>li:hover>a{color:#0d3a4f}.elementskit-submenu-panel>li>a{color:#000000;font-size:12px;padding-top:7px;padding-left:7px;padding-right:7px;padding-bottom:7px}.elementskit-dropdown{max-height:0;overflow:hidden;display:block;border:0px;-webkit-box-shadow:none;box-shadow:none;-webkit-transition:max-height 2s cubic-bezier(0, 1, 0, 1);-o-transition:max-height 2s cubic-bezier(0, 1, 0, 1);transition:max-height 2s cubic-bezier(0, 1, 0, 1)}.elementskit-dropdown.elementskit-dropdown-open{max-height:2500px;opacity:1;visibility:visible;-webkit-transition:max-height 5s ease-out;-o-transition:max-height 5s ease-out;transition:max-height 5s ease-out}.elementskit-navbar-nav>.elementskit-dropdown-has>.elementskit-dropdown li a{padding-left:15px}}
   
 
 /* Animation */

diff --git a/public/assetshome/css/global.css b/public/assetshome/css/global.css
@@ -137,7 +137,7 @@
   --dark-color-two:rgb(34,36,41);
   
   /* #0d1418 in decimal RGB */
-  --dark-color-three:rgb(13,20,24);
+  --dark-color-three:rgb(55,95,122);
   
   /* #03041B in decimal RGB */
   --dark-color-four:rgb(3,4,27);

diff --git a/public/assetshome/css/style.css b/public/assetshome/css/style.css
@@ -6148,7 +6148,7 @@
 .strategy-section .info-column .inner-column{
 	position:relative;
 	padding:35px 35px 40px;
-	background-color:#ffffff;
+	background-color:#911666;
 }
 
 .strategy-section .info-column .number-list{
